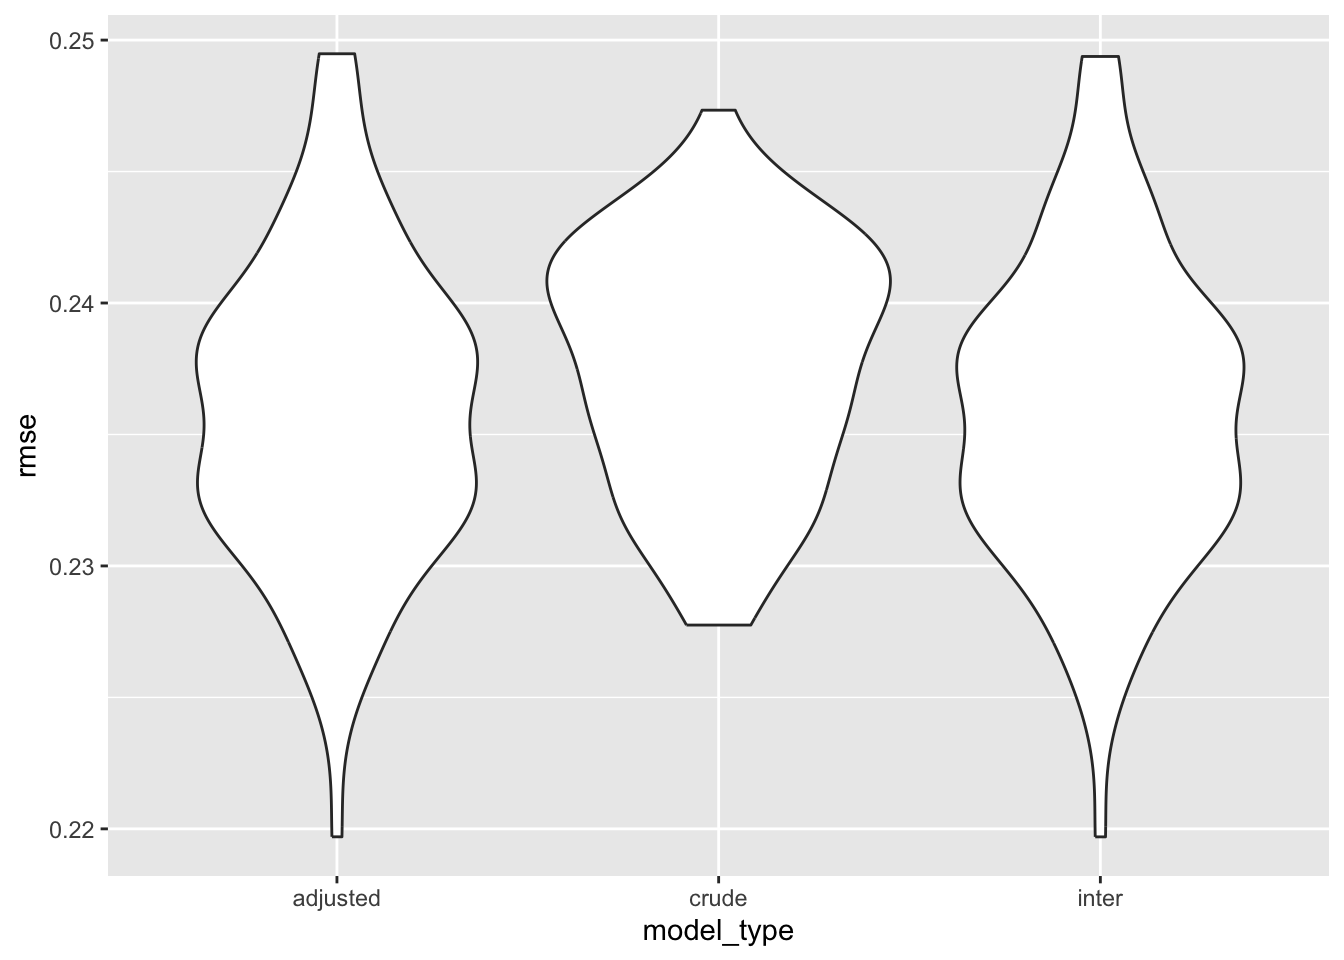
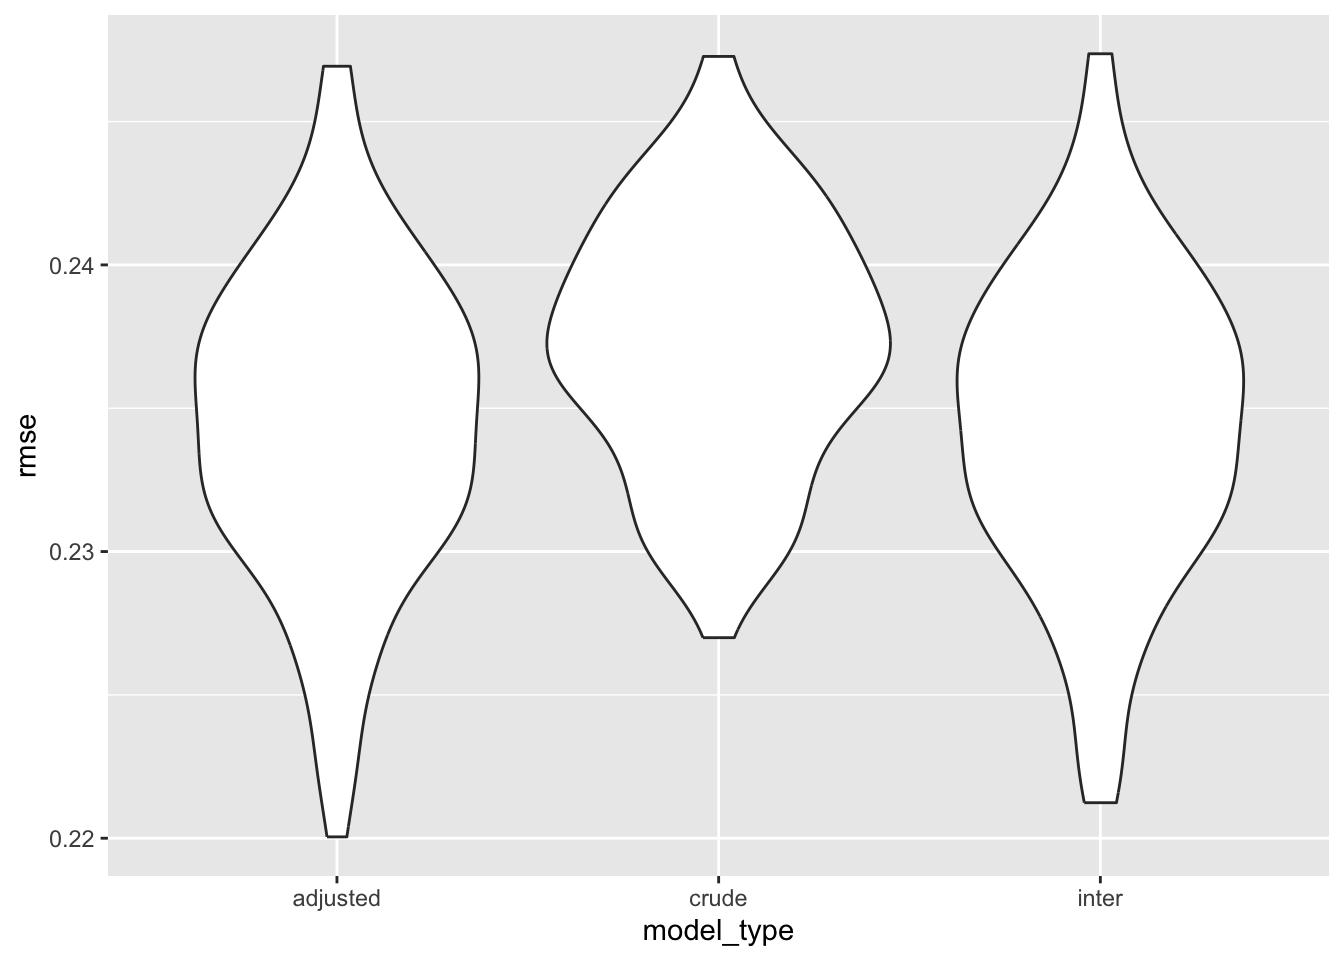
version of video

diff --git a/Report.html b/Report.html
@@ -1151,9 +1151,9 @@ Analysis</p>
 <pre><code>## # A tibble: 3 × 2
 ##   model_type    m_rmse
 ##   &lt;chr&gt;          &lt;dbl&gt;
-## 1 fast_adjusted  0.320
-## 2 fast_crude     0.477
-## 3 fast_inter     0.363</code></pre>
+## 1 fast_adjusted  0.317
+## 2 fast_crude     0.478
+## 3 fast_inter     0.356</code></pre>
 <pre class="r"><code>cv_results |&gt; 
   select(starts_with(&quot;rmse&quot;)) |&gt; 
   pivot_longer(
@@ -1213,36 +1213,36 @@ print(best_adjusted_model_summary)</code></pre>
 ##     race + education + income_to_poverty, data = df)
 ## 
 ## Residuals:
-##      Min       1Q   Median       3Q      Max 
-## -0.72949 -0.15992 -0.01134  0.15076  0.93870 
+##     Min      1Q  Median      3Q     Max 
+## -0.7158 -0.1619 -0.0068  0.1515  0.9514 
 ## 
 ## Coefficients:
 ##                                            Estimate Std. Error t value Pr(&gt;|t|)
-## (Intercept)                               3.432e+00  2.053e-02 167.189  &lt; 2e-16
-## freq_fast_food                           -9.807e-05  4.278e-05  -2.292   0.0219
-## age                                       3.743e-04  2.763e-04   1.355   0.1756
-## genderMale                               -4.479e-02  8.588e-03  -5.216 1.95e-07
-## marital_statusNever married              -2.141e-02  1.208e-02  -1.773   0.0764
-## marital_statusWidowed/Divorced/Separated -2.121e-02  1.109e-02  -1.913   0.0559
-## raceMexican American                     -9.082e-03  1.420e-02  -0.639   0.5226
-## raceOther                                -1.714e-01  1.875e-02  -9.140  &lt; 2e-16
-## raceOther Hispanic                       -2.224e-02  1.555e-02  -1.431   0.1526
-## raceWhite                                -2.832e-02  1.064e-02  -2.662   0.0078
-## educationHigh school graduate            -6.437e-03  1.382e-02  -0.466   0.6414
-## educationLess than 9th grade             -1.885e-03  2.041e-02  -0.092   0.9264
-## educationSome college or AA degree       -3.254e-03  1.355e-02  -0.240   0.8102
-## income_to_poverty                         2.728e-03  3.104e-03   0.879   0.3795
+## (Intercept)                               3.418e+00  2.116e-02 161.536  &lt; 2e-16
+## freq_fast_food                           -9.831e-05  4.296e-05  -2.289   0.0222
+## age                                       1.722e-04  2.814e-04   0.612   0.5405
+## genderMale                               -3.984e-02  8.595e-03  -4.636  3.7e-06
+## marital_statusNever married              -2.847e-02  1.202e-02  -2.369   0.0179
+## marital_statusWidowed/Divorced/Separated -2.160e-02  1.120e-02  -1.929   0.0538
+## raceMexican American                     -2.399e-03  1.446e-02  -0.166   0.8683
+## raceOther                                -1.680e-01  1.843e-02  -9.116  &lt; 2e-16
+## raceOther Hispanic                       -2.358e-02  1.547e-02  -1.524   0.1276
+## raceWhite                                -2.646e-02  1.066e-02  -2.483   0.0131
+## educationHigh school graduate             1.295e-02  1.414e-02   0.916   0.3597
+## educationLess than 9th grade              2.143e-03  2.055e-02   0.104   0.9169
+## educationSome college or AA degree        2.278e-02  1.393e-02   1.635   0.1022
+## income_to_poverty                         2.059e-03  3.097e-03   0.665   0.5062
 ##                                             
 ## (Intercept)                              ***
 ## freq_fast_food                           *  
 ## age                                         
 ## genderMale                               ***
-## marital_statusNever married              .  
+## marital_statusNever married              *  
 ## marital_statusWidowed/Divorced/Separated .  
 ## raceMexican American                        
 ## raceOther                                ***
 ## raceOther Hispanic                          
-## raceWhite                                ** 
+## raceWhite                                *  
 ## educationHigh school graduate               
 ## educationLess than 9th grade                
 ## educationSome college or AA degree          
@@ -1250,10 +1250,10 @@ print(best_adjusted_model_summary)</code></pre>
 ## ---
 ## Signif. codes:  0 &#39;***&#39; 0.001 &#39;**&#39; 0.01 &#39;*&#39; 0.05 &#39;.&#39; 0.1 &#39; &#39; 1
 ## 
-## Residual standard error: 0.2372 on 3159 degrees of freedom
-##   (5937 observations deleted due to missingness)
-## Multiple R-squared:  0.0362, Adjusted R-squared:  0.03223 
-## F-statistic: 9.126 on 13 and 3159 DF,  p-value: &lt; 2.2e-16</code></pre>
+## Residual standard error: 0.2382 on 3163 degrees of freedom
+##   (5933 observations deleted due to missingness)
+## Multiple R-squared:  0.0367, Adjusted R-squared:  0.03274 
+## F-statistic:  9.27 on 13 and 3163 DF,  p-value: &lt; 2.2e-16</code></pre>
 <p>The estimated <code>log(BMI)</code> is approximately 3.414 when all
 predictor variables are held at zero. To interpret this on the original
 BMI scale, you would calculate exp(3.414). This value represents the
@@ -1334,15 +1334,15 @@ kable(rmse_summary, format = &quot;markdown&quot;, caption = &quot;Summary of RM
 <tbody>
 <tr class="odd">
 <td align="left">adjusted</td>
-<td align="right">0.2350185</td>
+<td align="right">0.2351379</td>
 </tr>
 <tr class="even">
 <td align="left">crude</td>
-<td align="right">0.2370175</td>
+<td align="right">0.2371011</td>
 </tr>
 <tr class="odd">
 <td align="left">inter</td>
-<td align="right">0.2350270</td>
+<td align="right">0.2350856</td>
 </tr>
 </tbody>
 </table>
@@ -1481,9 +1481,9 @@ alongside the main effects.</p>
 <pre><code>## # A tibble: 3 × 2
 ##   model_type m_rmse
 ##   &lt;chr&gt;       &lt;dbl&gt;
-## 1 adjusted    0.246
+## 1 adjusted    0.252
 ## 2 crude       0.308
-## 3 inter       0.314</code></pre>
+## 3 inter       0.341</code></pre>
 <p>According to the violin plot of the RMSE distribution for each model,
 the adjusted model consistently shows a concentrated distribution of
 lower RMSE values, meaning it has a superior predictive performance
@@ -1518,24 +1518,24 @@ print(best_adjusted_model_summary)</code></pre>
 ## 
 ## Residuals:
 ##      Min       1Q   Median       3Q      Max 
-## -0.78970 -0.15881 -0.01053  0.14912  1.09502 
+## -0.76832 -0.15757 -0.01111  0.14784  1.09316 
 ## 
 ## Coefficients:
 ##                                            Estimate Std. Error t value Pr(&gt;|t|)
-## (Intercept)                               3.422e+00  1.840e-02 185.913  &lt; 2e-16
-## freq_frozen                              -5.845e-05  3.573e-05  -1.636 0.101979
-## age                                       2.630e-04  2.462e-04   1.068 0.285465
-## genderMale                               -4.409e-02  7.577e-03  -5.819 6.38e-09
-## marital_statusNever married              -2.560e-02  1.075e-02  -2.382 0.017280
-## marital_statusWidowed/Divorced/Separated -2.170e-02  9.634e-03  -2.252 0.024365
-## raceMexican American                     -3.020e-03  1.279e-02  -0.236 0.813283
-## raceOther                                -1.751e-01  1.574e-02 -11.121  &lt; 2e-16
-## raceOther Hispanic                       -2.595e-02  1.337e-02  -1.941 0.052354
-## raceWhite                                -3.229e-02  9.436e-03  -3.422 0.000628
-## educationHigh school graduate             1.254e-02  1.191e-02   1.053 0.292502
-## educationLess than 9th grade              2.251e-03  1.622e-02   0.139 0.889620
-## educationSome college or AA degree        2.544e-02  1.176e-02   2.164 0.030530
-## income_to_poverty                        -5.737e-04  2.766e-03  -0.207 0.835727
+## (Intercept)                               3.429e+00  1.820e-02 188.393  &lt; 2e-16
+## freq_frozen                              -5.445e-06  2.507e-05  -0.217   0.8281
+## age                                       2.081e-04  2.432e-04   0.856   0.3923
+## genderMale                               -3.860e-02  7.521e-03  -5.132 2.99e-07
+## marital_statusNever married              -2.261e-02  1.063e-02  -2.126   0.0335
+## marital_statusWidowed/Divorced/Separated -2.417e-02  9.630e-03  -2.510   0.0121
+## raceMexican American                     -1.881e-02  1.272e-02  -1.479   0.1393
+## raceOther                                -1.822e-01  1.577e-02 -11.555  &lt; 2e-16
+## raceOther Hispanic                       -3.068e-02  1.339e-02  -2.292   0.0220
+## raceWhite                                -4.004e-02  9.365e-03  -4.276 1.95e-05
+## educationHigh school graduate             6.321e-03  1.185e-02   0.534   0.5936
+## educationLess than 9th grade              1.210e-03  1.613e-02   0.075   0.9402
+## educationSome college or AA degree        1.804e-02  1.170e-02   1.541   0.1233
+## income_to_poverty                         1.442e-03  2.726e-03   0.529   0.5970
 ##                                             
 ## (Intercept)                              ***
 ## freq_frozen                                 
@@ -1545,19 +1545,19 @@ print(best_adjusted_model_summary)</code></pre>
 ## marital_statusWidowed/Divorced/Separated *  
 ## raceMexican American                        
 ## raceOther                                ***
-## raceOther Hispanic                       .  
+## raceOther Hispanic                       *  
 ## raceWhite                                ***
 ## educationHigh school graduate               
 ## educationLess than 9th grade                
-## educationSome college or AA degree       *  
+## educationSome college or AA degree          
 ## income_to_poverty                           
 ## ---
 ## Signif. codes:  0 &#39;***&#39; 0.001 &#39;**&#39; 0.01 &#39;*&#39; 0.05 &#39;.&#39; 0.1 &#39; &#39; 1
 ## 
-## Residual standard error: 0.2381 on 4079 degrees of freedom
-##   (5017 observations deleted due to missingness)
-## Multiple R-squared:  0.04143,    Adjusted R-squared:  0.03837 
-## F-statistic: 13.56 on 13 and 4079 DF,  p-value: &lt; 2.2e-16</code></pre>
+## Residual standard error: 0.236 on 4044 degrees of freedom
+##   (5052 observations deleted due to missingness)
+## Multiple R-squared:  0.04014,    Adjusted R-squared:  0.03706 
+## F-statistic: 13.01 on 13 and 4044 DF,  p-value: &lt; 2.2e-16</code></pre>
 <p>Best-Fitting Model Analysis The best-fitting model, based on the
 cross-validation results, is the adjusted model. Thus, a detailed
 examination was conducted, and its summary statistics indicate that: The

diff --git a/home.html b/home.html
@@ -147,7 +147,7 @@
                 <div class="col-xl-5 col-lg-5 col-md-5 col-sm-12">
                     <div class="about-img">
                         <img src="assets/images/obesity.webp" alt="">
-                        <a href="https://youtu.be/sQ1Yy5xwmLk" class="video-popup"><i class="fa fa-play"></i></a>
+                        <li class="u-nav-item"><a class="u-button-style u-nav-link u-text-white" href="https://youtu.be/sQ1Yy5xwmLk" style="padding: 8px 0px;"><font size="4">Video</font></a>
                     </div>
                 </div>
             </div>

diff --git a/index.html b/index.html
@@ -147,7 +147,7 @@
                 <div class="col-xl-5 col-lg-5 col-md-5 col-sm-12">
                     <div class="about-img">
                         <img src="assets/images/obesity.webp" alt="">
-                        <a href="https://youtu.be/sQ1Yy5xwmLk" class="video-popup"><i class="fa fa-play"></i></a>
+                        <li class="u-nav-item"><a class="u-button-style u-nav-link u-text-white" href="https://youtu.be/sQ1Yy5xwmLk" style="padding: 8px 0px;"><font size="4">Video</font></a>
                     </div>
                 </div>
             </div>
